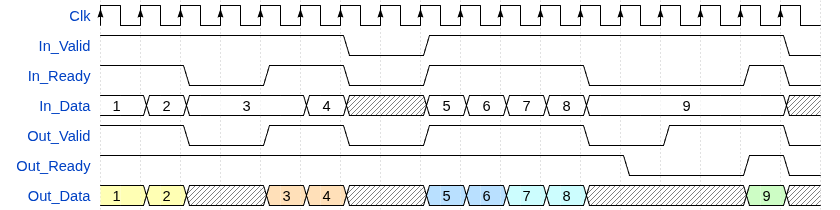
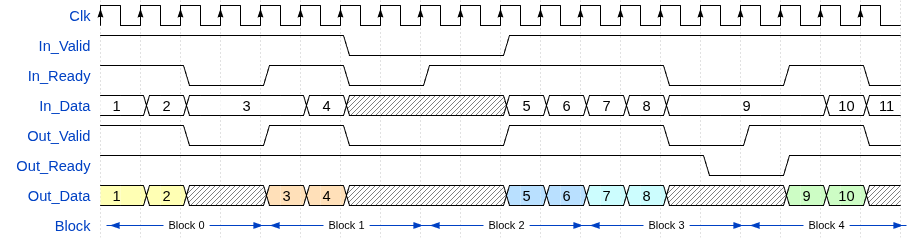
Fix review comments

diff --git a/doc/base/olo_base_rate_limit.md b/doc/base/olo_base_rate_limit.md
@@ -31,8 +31,9 @@ side are marked in colors.
 
 ![wave_block](misc/olo_base_rate_limit_block.png)
 
-Note how the rate can exceed the limit if short bursts occur at the end of one block (blue) and the beginning of the
-next block (turquoise).
+Note how the rate can exceed the limit if short bursts occur at the end of one block (blue, block 2) and the beginning
+of the next block (turquoise, block 3). Although each block only forwards two samples, in this situation fours samples
+are forwarded consecutively in the two consecutive blocks.
 
 ### _SMOOTH_ Mode
 
@@ -41,7 +42,8 @@ side are marked in colors.
 
 ![wave_smooth](misc/olo_base_rate_limit_smooth.png)
 
-Note how the samples never exceed the rate of one sample every two clock cycles. Also not over short periods of time.
+Note how the samples are equally spaced (one sample every two clock cycles). In contrast to _BLOCK_ mode bursts are
+forwarded.
 
 ## Generics
 
